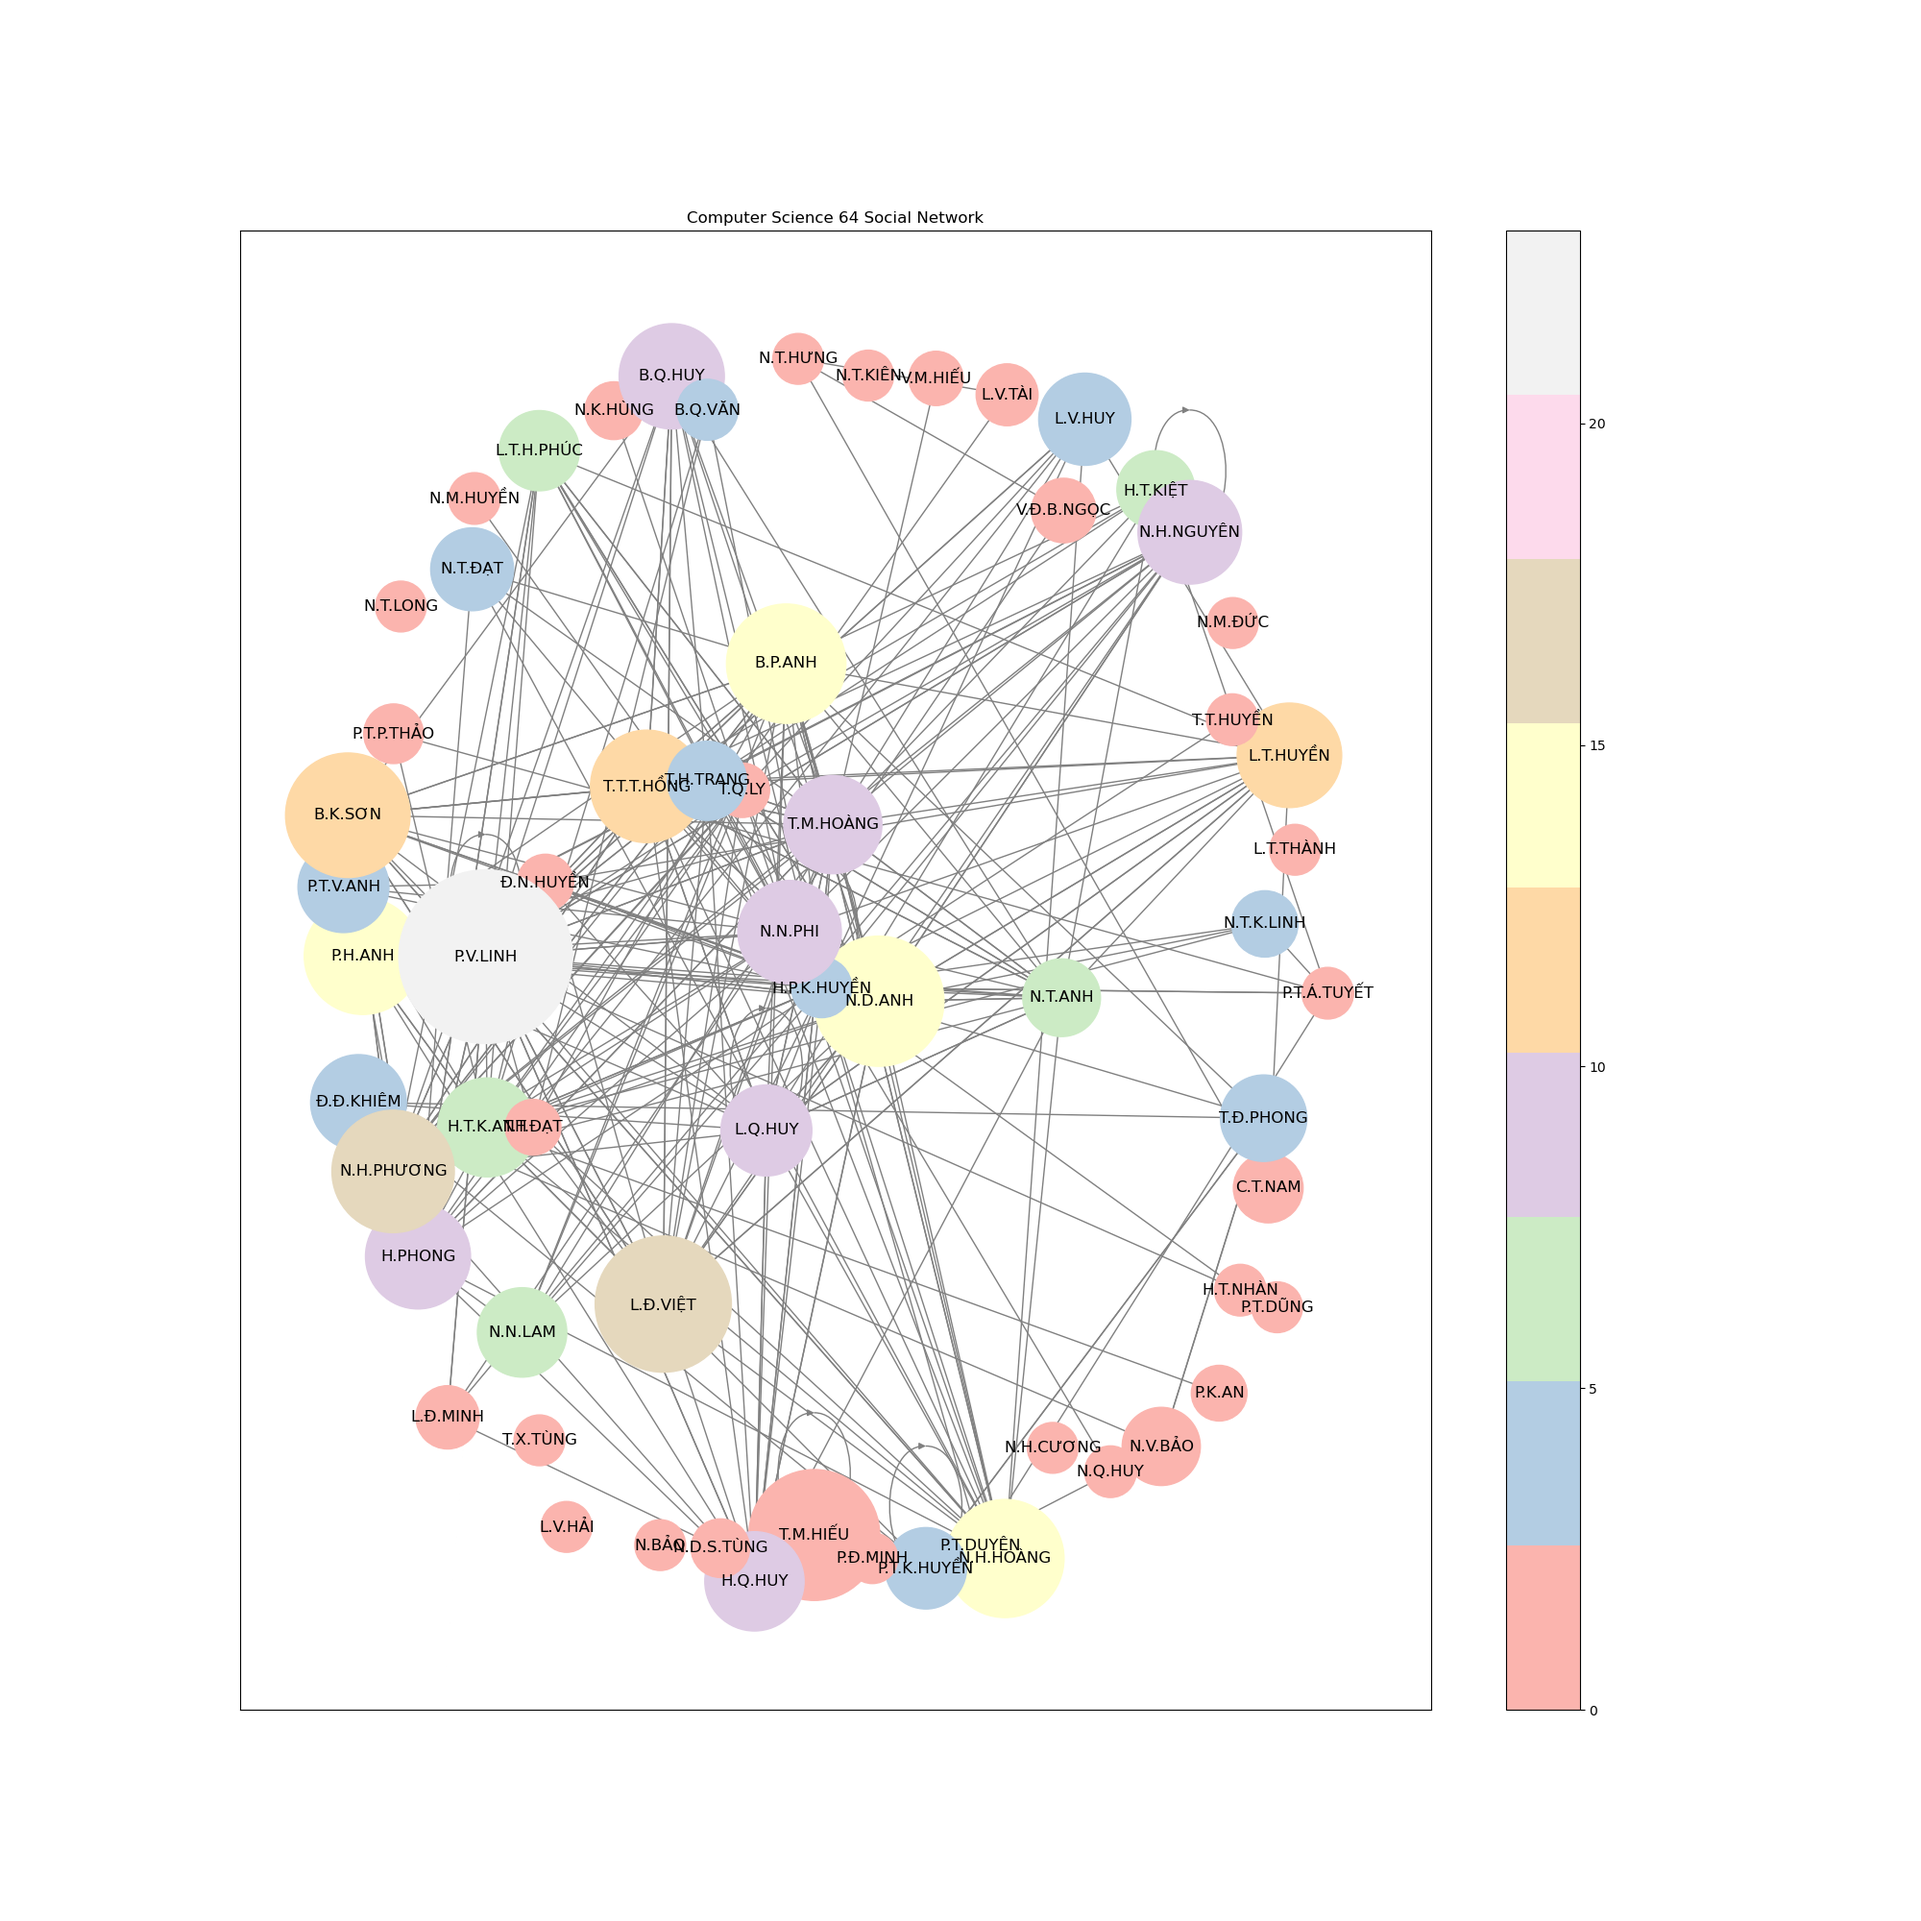
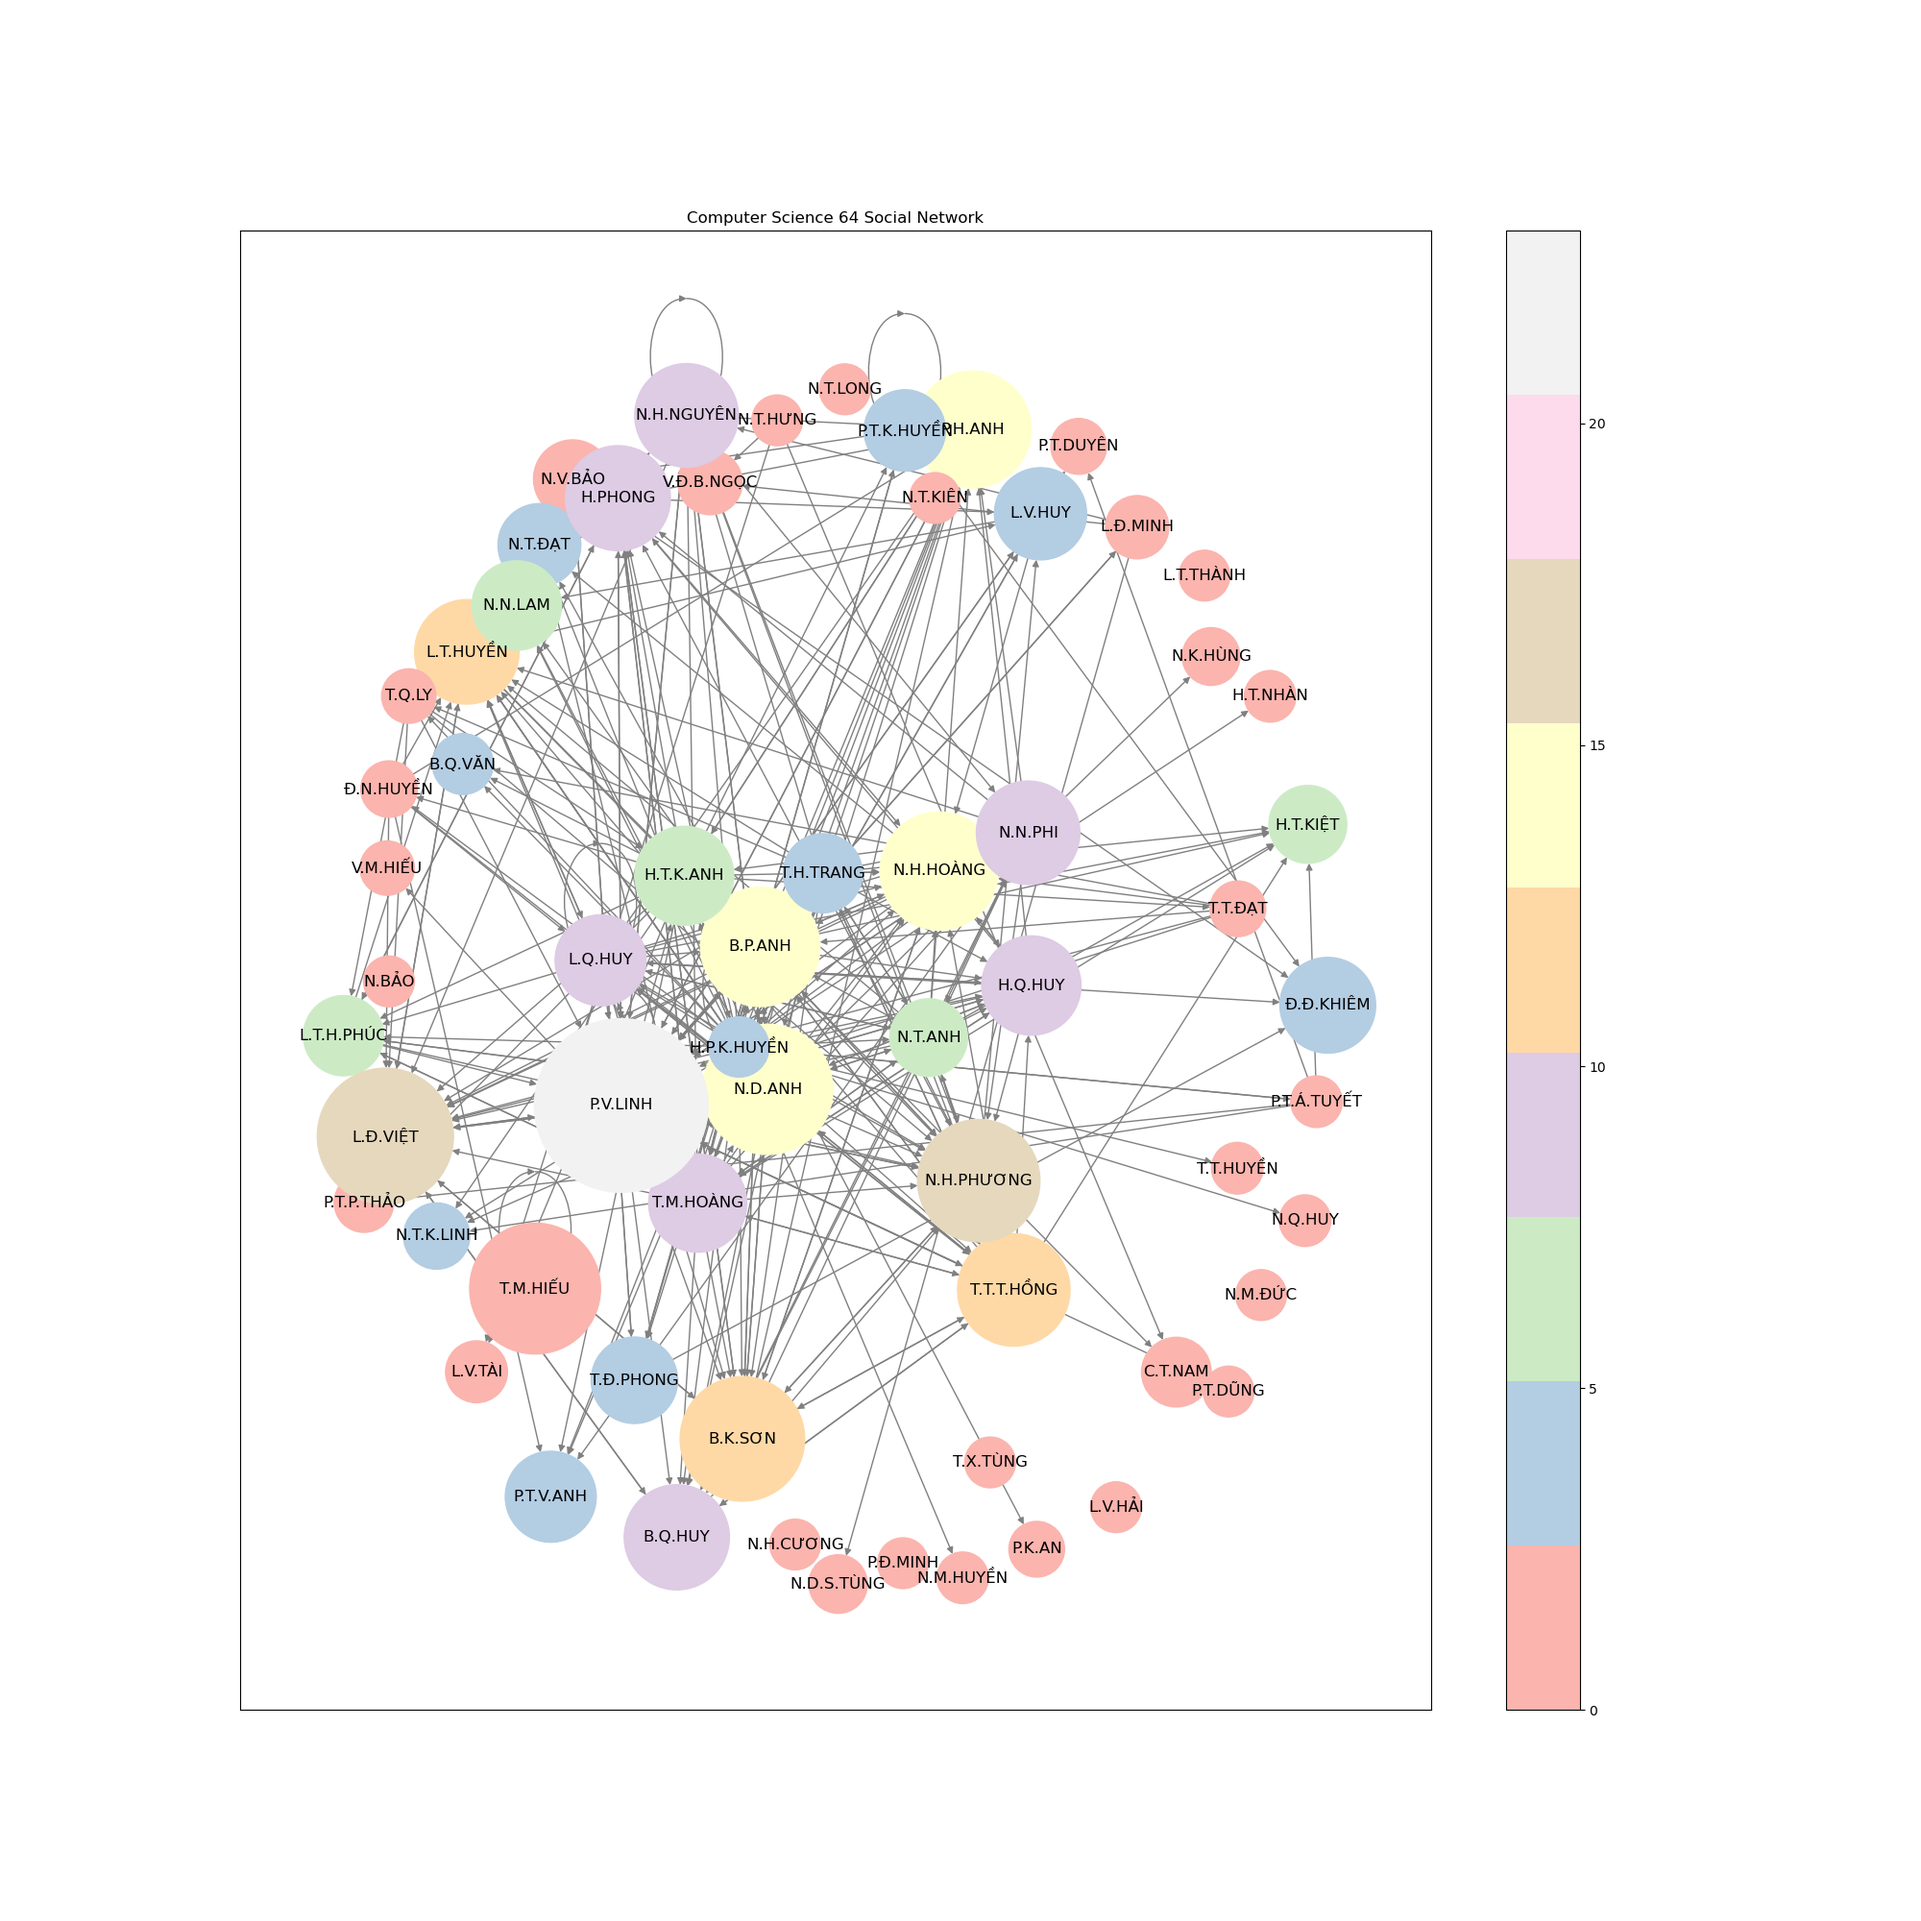
Update Discrete Mathematics Project

Changed region(s): [[0.124, 0.155, 0.713, 0.868]]

diff --git a/Subject Assignments/Discrete Mathematics/CS64 Social Network Project/main.py b/Subject Assignments/Discrete Mathematics/CS64 Social Network Project/main.py
@@ -57,7 +57,7 @@ vmax = max(nodeColors)
 # Vẽ các thành phần của đồ thị lên màn hình đồ họa
 nodeDraw = nx.draw_networkx_nodes(graph, pos, graph.nodes, node_color=nodeColors, cmap="Pastel1",
                                   vmin=vmin, vmax=vmax, label=True, node_size=nodeSize)
-edgeDraw = nx.draw_networkx_edges(graph, pos, edge_color="gray")
+edgeDraw = nx.draw_networkx_edges(graph, pos, node_size=nodeSize, edge_color="gray", arrowstyle="-|>")
 labelDraw = nx.draw_networkx_labels(graph, pos, font_size=12, font_color="black")
 
 # Vẽ thanh chỉ thị màu
